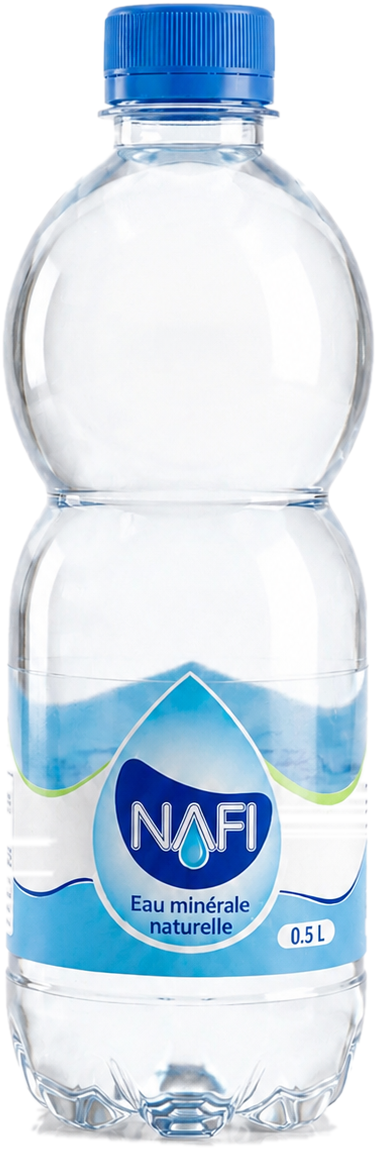
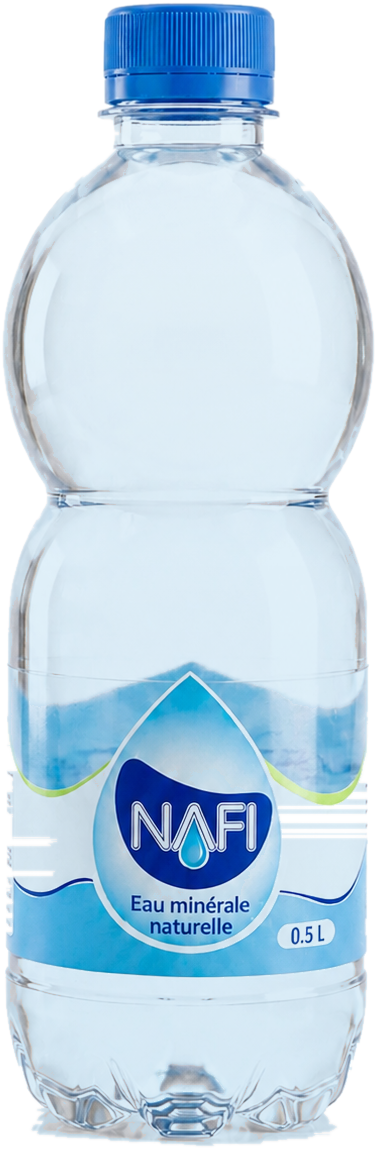
Teinte d'eau bleutee a l'interieur des bouteilles (effet rempli d'eau)

diff --git a/scripts/remove_bg.py b/scripts/remove_bg.py
@@ -1,55 +1,74 @@
 #!/usr/bin/env python3
-"""Detoure les bouteilles en GARDANT l'interieur plein (eau blanche).
-Principe : on detecte les bords de la bouteille (tout ce qui differe du
-fond blanc), puis on remplit la silhouette ligne par ligne. L'interieur
-conserve donc ses couleurs d'origine (eau claire/blanche)."""
+"""Detoure les bouteilles, garde l'interieur plein ET ajoute une teinte
+d'eau bleutee realiste pour que la bouteille paraisse remplie d'eau."""
 import sys
 from PIL import Image, ImageChops, ImageFilter
+
+WATER_TOP = (208, 234, 248)   # bleu d'eau clair (haut)
+WATER_BOT = (168, 212, 238)   # bleu d'eau un peu plus dense (bas)
+BLEND = 0.45                   # intensite de la teinte d'eau
+
+def water_gradient(w, h):
+    grad = Image.new("RGB", (w, h))
+    p = grad.load()
+    for y in range(h):
+        t = y / max(1, h - 1)
+        col = tuple(int(WATER_TOP[i] + (WATER_BOT[i] - WATER_TOP[i]) * t) for i in range(3))
+        for x in range(w):
+            p[x, y] = col
+    return grad
 
 def cutout(src, dst, thresh=24, feather=1.2):
     img = Image.open(src).convert("RGB")
     w, h = img.size
 
-    # Couleur de fond = moyenne des 4 coins
     px = img.load()
     cs = [px[0, 0], px[w-1, 0], px[0, h-1], px[w-1, h-1]]
     bg = tuple(sum(c[i] for c in cs) // 4 for i in range(3))
 
-    # Difference par rapport au fond -> canal max
+    # --- Silhouette pleine (remplissage ligne par ligne) ---
     diff = ImageChops.difference(img, Image.new("RGB", (w, h), bg))
     r, g, b = diff.split()
     dmax = ImageChops.lighter(ImageChops.lighter(r, g), b)
     mask = dmax.point(lambda v: 255 if v > thresh else 0)
     mp = mask.load()
 
-    # Remplissage de la silhouette ligne par ligne (1 segment par rangee)
     alpha = Image.new("L", (w, h), 0)
     ap = alpha.load()
     for y in range(h):
         left = -1
         for x in range(w):
             if mp[x, y]:
-                left = x
-                break
+                left = x; break
         if left == -1:
             continue
         right = left
         for x in range(w-1, left-1, -1):
             if mp[x, y]:
-                right = x
-                break
+                right = x; break
         for x in range(left, right+1):
             ap[x, y] = 255
 
-    # Lissage des bords
-    alpha = alpha.filter(ImageFilter.GaussianBlur(feather))
-    out = img.convert("RGBA")
-    out.putalpha(alpha)
+    # --- Zone "eau" = pixels clairs et peu colores a l'interieur ---
+    gray = img.convert("L")
+    light = gray.point(lambda v: 255 if v > 205 else 0)
+    rr, gg, bb = img.split()
+    mx = ImageChops.lighter(ImageChops.lighter(rr, gg), bb)
+    mn = ImageChops.darker(ImageChops.darker(rr, gg), bb)
+    lowsat = ImageChops.difference(mx, mn).point(lambda v: 255 if v < 30 else 0)
+    water_mask = ImageChops.multiply(ImageChops.multiply(light, lowsat), alpha)
+
+    # --- Teinte d'eau ---
+    tinted = Image.blend(img, water_gradient(w, h), BLEND)
+    filled = Image.composite(tinted, img, water_mask)
+
+    out = filled.convert("RGBA")
+    out.putalpha(alpha.filter(ImageFilter.GaussianBlur(feather)))
     bbox = out.getbbox()
     if bbox:
         out = out.crop(bbox)
     out.save(dst)
-    print(f"{dst}  {out.size[0]}x{out.size[1]}  (fond={bg})")
+    print(f"{dst}  {out.size[0]}x{out.size[1]}")
 
 if __name__ == "__main__":
     a = sys.argv[1:]
